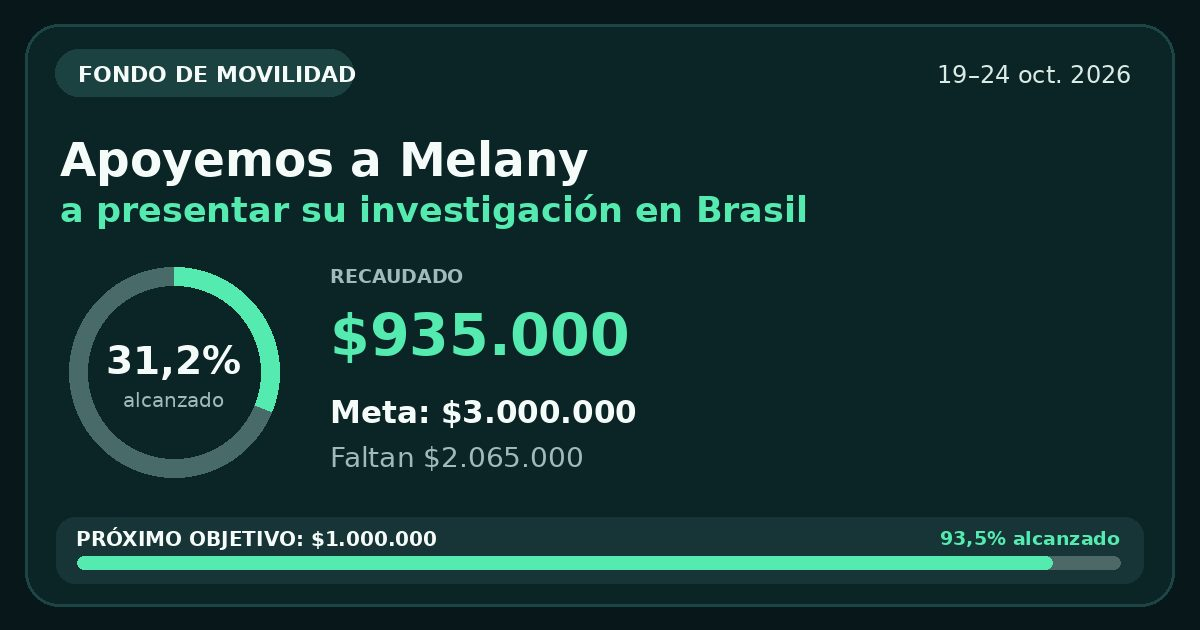
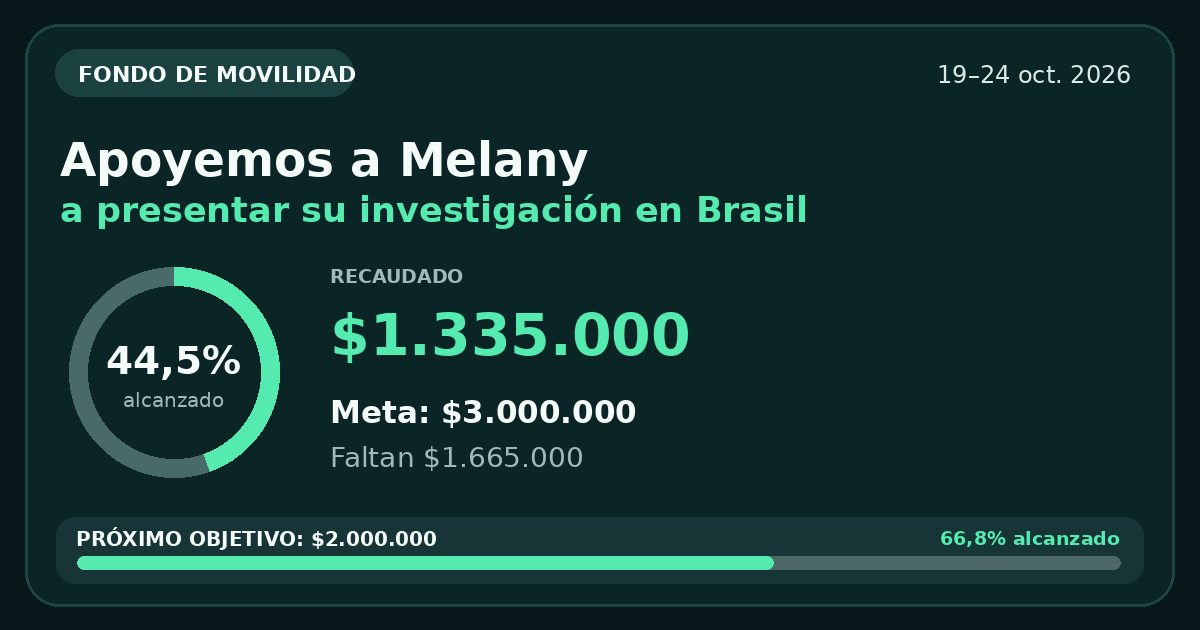
Actualiza recaudo e imagen WhatsApp desde Sheets

diff --git a/index.html b/index.html
@@ -4,7 +4,7 @@
   <meta charset="UTF-8">
   <meta name="viewport" content="width=device-width, initial-scale=1, viewport-fit=cover">
   <meta name="theme-color" content="#0b1516">
-  <meta name="description" content="Hemos recaudado $935.000 de $3.000.000. Consulta el avance y cómo aportar.">
+  <meta name="description" content="Hemos recaudado $1.335.000 de $3.000.000. Consulta el avance y cómo aportar.">
   <title>Apoyemos a Melany · Colecta solidaria</title>
 
   <!-- VISTA PREVIA DE WHATSAPP: reemplazar plravelor por el usuario REAL de GitHub. -->
@@ -12,7 +12,7 @@
   <meta property="og:locale" content="es_CO">
   <meta property="og:site_name" content="Colecta solidaria para Melany">
   <meta property="og:title" content="Ayudemos a Melany a presentar su investigación en Brasil">
-  <meta property="og:description" content="Hemos recaudado $935.000 de $3.000.000. Consulta el avance y cómo aportar.">
+  <meta property="og:description" content="Hemos recaudado $1.335.000 de $3.000.000. Consulta el avance y cómo aportar.">
   <meta property="og:image" content="https://plravelor.github.io/fondo-melany/assets/og-portada-auto.jpg">
   <meta property="og:image:width" content="1200">
   <meta property="og:image:height" content="630">
